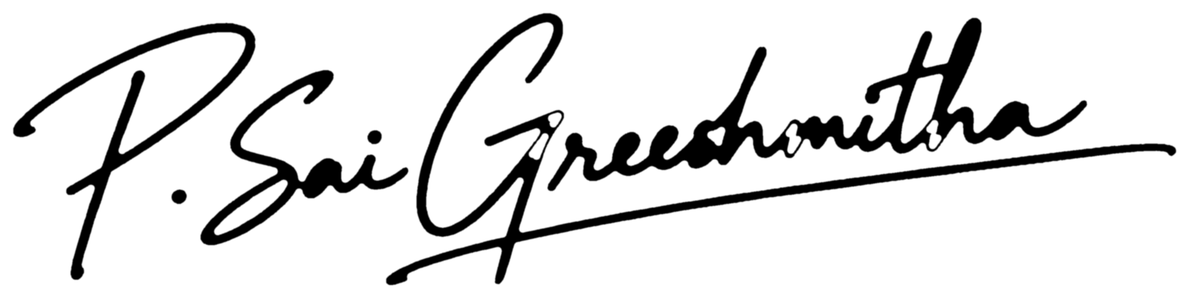
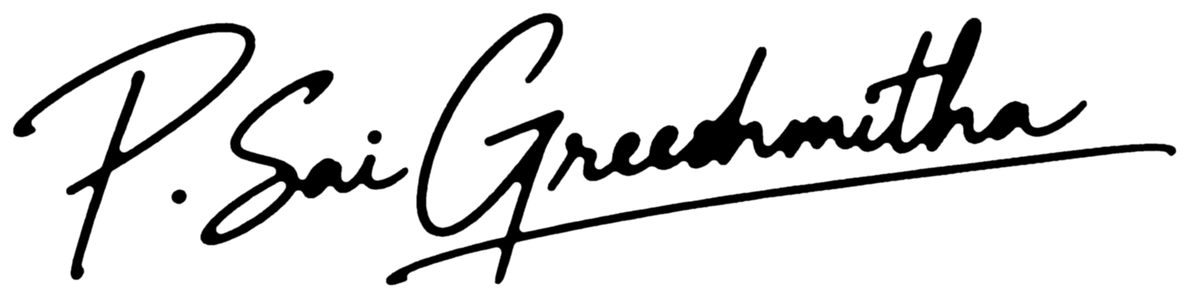
Upadted UI

diff --git a/frontend/src/pages/founder/LetterEditor.tsx b/frontend/src/pages/founder/LetterEditor.tsx
@@ -27,7 +27,7 @@ export default function LetterEditor() {
 
   const draftQ = useQuery({
     queryKey: ["letter-draft", kind, empId],
-    queryFn: () => api.get<{ draft: Draft; number_preview: string; employee: EmployeeBrief }>(`/letters/${kind}/draft?employee_id=${empId}`),
+    queryFn: () => api.get<{ draft: Draft; number_preview: string; number_previews: Record<string, string>; employee: EmployeeBrief }>(`/letters/${kind}/draft?employee_id=${empId}`),
     enabled: !editing && !!empId, staleTime: 0,
   });
   const letterQ = useQuery({
@@ -64,7 +64,7 @@ export default function LetterEditor() {
   }
   if (!d) return <PageSkeleton />;
   const emp = draftQ.data?.employee ?? letterQ.data?.employee;
-  const number = editing ? letterQ.data!.letter.number : draftQ.data!.number_preview;
+  const number = editing ? letterQ.data!.letter.number : (draftQ.data!.number_previews[d.letter_type as string] ?? draftQ.data!.number_preview);
   const v = (k: string) => (d[k] ?? "") as string;
   const set = (k: string, val: string | number | null) => setD((cur) => ({ ...(cur as Draft), [k]: val }));
   const bind = (k: string) => ({ value: v(k), onChange: (e: React.ChangeEvent<HTMLInputElement | HTMLTextAreaElement | HTMLSelectElement>) => set(k, e.target.value) });

diff --git a/frontend/src/pages/founder/Settings.tsx b/frontend/src/pages/founder/Settings.tsx
@@ -105,7 +105,7 @@ export default function Settings() {
         </Section>
         <Section icon={<PenLine />} title="HR signatory" text="Co-signs offer, joining and relieving letters and payslips next to the founder. Leave empty to have the founder sign alone.">
           <Field label="HR name" optional><Input {...bind("hr_name")} /></Field>
-          <Field label="Designation" optional><Input {...bind("hr_designation")} placeholder="HR Manager" /></Field>
+          <Field label="Designation" optional><Input {...bind("hr_designation")} placeholder="Manager" /></Field>
           {img("hr_signature", "HR signature", "Scan on white or transparent", s.hr_signature_url)}
         </Section>
         <Section icon={<Palette />} title="Branding" text="Transparent PNGs look best. A letterhead image, if set, replaces the logo header on PDFs.">

diff --git a/craftlanee/pdf.py b/craftlanee/pdf.py
@@ -204,10 +204,6 @@ class _Page:
         s = self.s
         c.saveState()
         c._cl_label = self.label
-        c.setFillColor(ACCENT)
-        c.rect(0, PAGE_H - 2.2 * mm, PAGE_W * 0.72, 2.2 * mm, stroke=0, fill=1)
-        c.setFillColor(ACCENT2)
-        c.rect(PAGE_W * 0.72, PAGE_H - 2.2 * mm, PAGE_W * 0.28, 2.2 * mm, stroke=0, fill=1)
 
         top = PAGE_H - 9 * mm
         letterhead = _image(s.letterhead_path, CONTENT_W, 24 * mm)
@@ -317,13 +313,15 @@ def kv_table(rows, st, label_w=58 * mm):
     return t
 
 
-def _signer(sig_path, name, title, st):
+def _signer(sig_path, name, title, st, heading=None):
     sig = _image(sig_path, 42 * mm, 14 * mm)
     if sig:
         data, w, h = sig
         parts = [Spacer(1, 2 * mm), Image(io.BytesIO(data), w, h, hAlign="LEFT")]
     else:
         parts = [Spacer(1, 13 * mm)]
+    if heading:
+        parts.append(P(heading, st["label"]))
     return parts + [P(name, st["strong"]), P(title, st["small"])]
 
 
@@ -333,15 +331,16 @@ def sign_off(settings, st, salutation="Yours sincerely,", name=None, title=None,
     if salutation:
         parts.append(P(salutation, st["plain"]))
     parts.append(P(f"For {settings.company_name or 'CraftLanee'}", st["strong"]))
-    founder = _signer(settings.signature_path, name or settings.founder_name or "Authorised Signatory",
-                      title or settings.founder_designation or "Authorised Signatory", st)
+    founder_name = name or settings.founder_name or "Authorised Signatory"
+    founder_title = title or settings.founder_designation or "Authorised Signatory"
     if hr and (settings.hr_name or settings.hr_signature_path):
+        founder = _signer(settings.signature_path, founder_name, founder_title, st, "Authorized Signatory")
         hr_col = _signer(settings.hr_signature_path, settings.hr_name or "Human Resources",
-                         settings.hr_designation or "HR Manager", st)
-        parts.append(_plain_table([[founder, hr_col]], [CONTENT_W / 2] * 2,
+                         settings.hr_designation or "Manager", st, "Authorized Signatory")
+        parts.append(_plain_table([[founder, hr_col]], [CONTENT_W - 50 * mm, 50 * mm],  # HR block flush right
                                   [("VALIGN", (0, 0), (-1, -1), "BOTTOM")]))
     else:
-        parts += founder
+        parts += _signer(settings.signature_path, founder_name, founder_title, st)
     return KeepTogether(parts)
 
 

diff --git a/craftlanee/api/documents.py b/craftlanee/api/documents.py
@@ -29,6 +29,11 @@ KINDS = {
 }
 
 
+def _prefix(kind, letter_type=None):
+    """Internship offers get their own series (CL-INTERN-…) so they never share numbers with job offers."""
+    return "INTERN" if kind == "offer" and letter_type == "internship" else KINDS[kind]["prefix"]
+
+
 def _kind(kind):
     if kind not in KINDS:
         fail("Unknown letter type.", 404)
@@ -138,7 +143,7 @@ def letters_preview(kind):
     d = body()
     letter = k["model"](employee_id=int(d.get("employee_id") or 0) or None)
     APPLY[kind](letter, d)
-    letter.number = clean(d, "number", 40) or next_doc_number(k["model"], k["prefix"])
+    letter.number = clean(d, "number", 40) or next_doc_number(k["model"], _prefix(kind, letter.letter_type))
     return _pdf_response(k["builder"], letter, f"{letter.number}-preview.pdf")
 
 
@@ -162,7 +167,10 @@ def letters_list(kind):
 def letters_draft(kind):
     k = _kind(kind)
     emp = get_or_404(Employee, request.args.get("employee_id", type=int) or 0, "Employee")
-    return ok(draft=_draft(kind, emp), number_preview=next_doc_number(k["model"], k["prefix"]),
+    draft = _draft(kind, emp)
+    previews = {t: next_doc_number(k["model"], _prefix(kind, t)) for t in ("employment", "internship")}         if kind == "offer" else {}
+    return ok(draft=draft, number_preview=next_doc_number(k["model"], _prefix(kind, draft.get("letter_type"))),
+              number_previews=previews,
               employee=S.employee_brief(emp))
 
 
@@ -174,7 +182,7 @@ def letters_create(kind):
     emp = get_or_404(Employee, int(d.get("employee_id") or 0), "Employee")
     letter = k["model"](employee_id=emp.id)
     fail_if(APPLY[kind](letter, d))
-    letter.number = next_doc_number(k["model"], k["prefix"])
+    letter.number = next_doc_number(k["model"], _prefix(kind, letter.letter_type))
     db.session.add(letter)
     db.session.flush()
     _render(letter, k["builder"], k["folder"])

diff --git a/craftlanee/models.py b/craftlanee/models.py
@@ -483,7 +483,7 @@ class CompanySettings(TimestampMixin, db.Model):
     signature_path = db.Column(db.String(255))
     # HR co-signs employee documents (offer/joining/relieving letters, payslips) next to the founder.
     hr_name = db.Column(db.String(120))
-    hr_designation = db.Column(db.String(120), default="HR Manager")
+    hr_designation = db.Column(db.String(120), default="Manager")
     hr_signature_path = db.Column(db.String(255))
     letterhead_path = db.Column(db.String(255))
     # Most logos already contain the company name (a wordmark). Only print the name as text too if asked.
